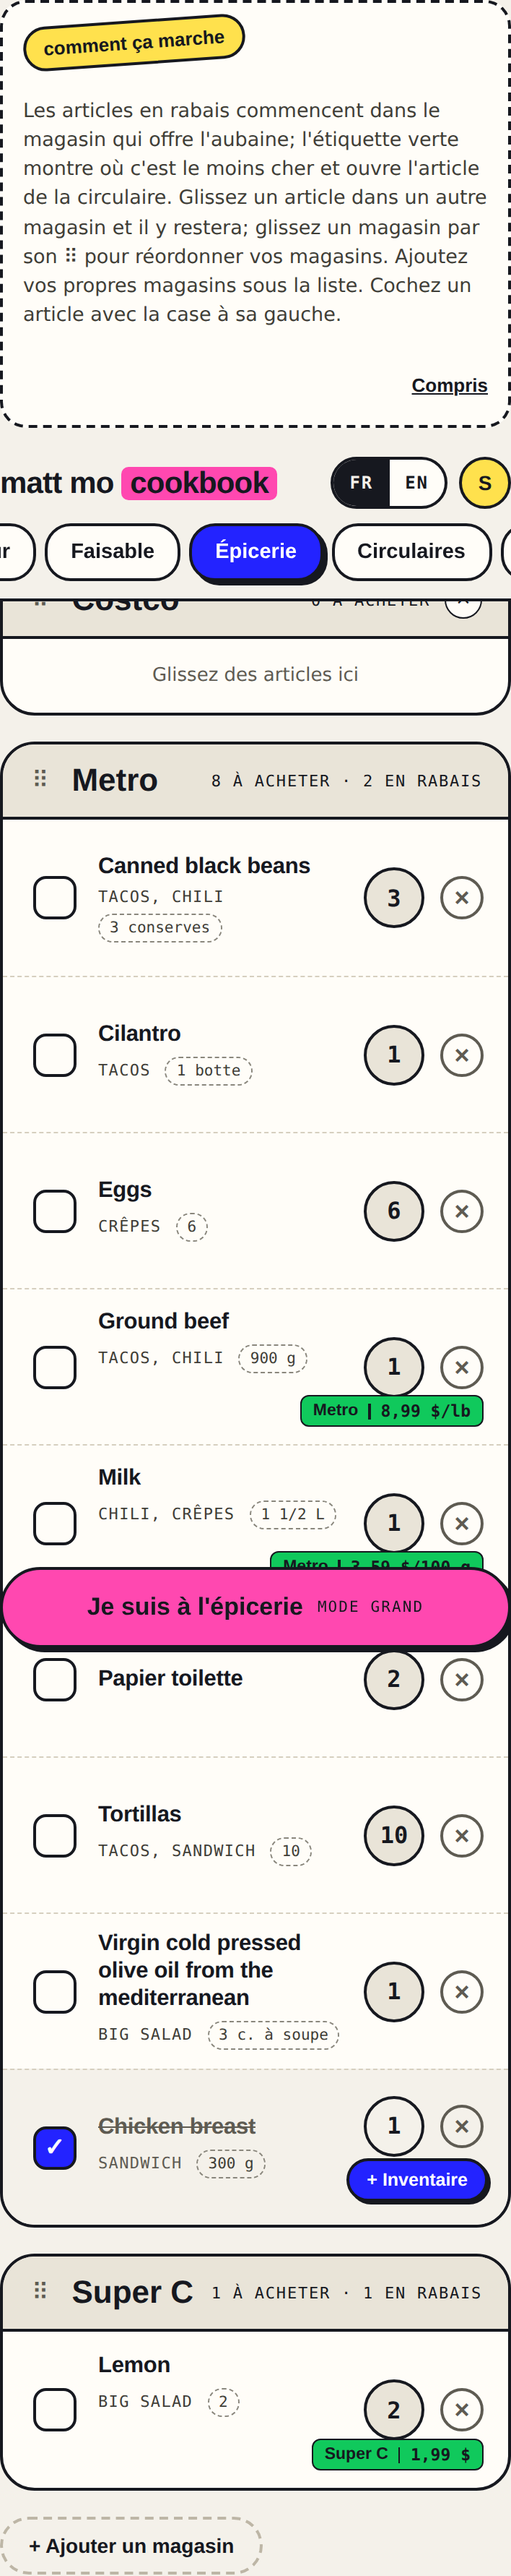
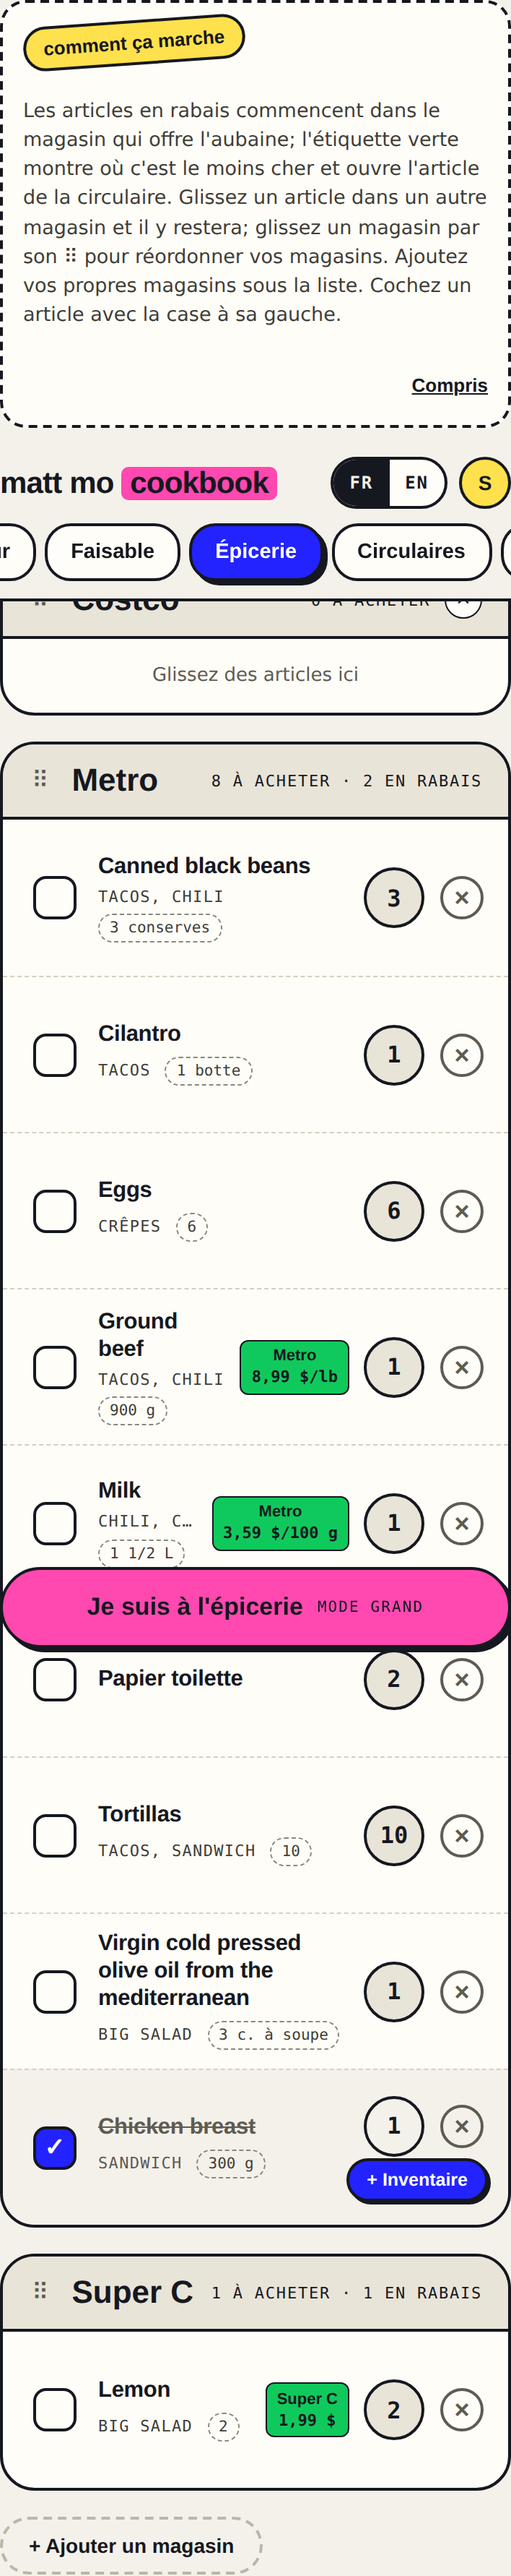
Grocery item: sale tag beside the number on a phone, white border on the Store mode check
- On a phone the sale tag is narrow (store over price) and sits just left of
  the number on the same line, instead of in the bottom right corner.
- In dark Store mode a checked row's blue box has a white border.
- Tests and docs updated.

Claude-Session: https://claude.ai/code/session_01P6gKk3TQsEzWZVFPMy5Arm

diff --git a/e2e/grocery-item.spec.js b/e2e/grocery-item.spec.js
@@ -225,26 +225,32 @@ test.describe("on a phone", () => {
     }
   });
 
-  test("on a phone the sale tag sits in the bottom right corner of its row, lined up with the ×", async ({ page }) => {
+  test("on a phone the sale tag is narrow and sits just left of the number, on the same line", async ({ page }) => {
     await setup(page);
-    const tags = page.locator(".riso-row-deal");
-    await expect(tags).toHaveCount(2);
+    await expect(page.locator(".riso-row-deal")).toHaveCount(2);
     const spots = await page.locator(".riso-row").evaluateAll((rows) =>
       rows
         .filter((r) => r.querySelector(".riso-row-deal"))
         .map((r) => {
           const tag = r.querySelector(".riso-row-deal").getBoundingClientRect();
-          const del = r.querySelector(".riso-row-delete").getBoundingClientRect();
           const qty = r.querySelector(".riso-row-qty").getBoundingClientRect();
-          const row = r.getBoundingClientRect();
-          return { gap: Math.abs(tag.right - (del.right - 7)), underNumber: tag.top >= qty.bottom - 1, inRow: tag.bottom <= row.bottom && tag.left >= row.left };
+          const name = r.querySelector(".riso-row-name").getBoundingClientRect();
+          return {
+            leftOfNumber: tag.right <= qty.left && qty.left - tag.right < 16,
+            sameLine: Math.abs(tag.top + tag.height / 2 - (qty.top + qty.height / 2)) < 6,
+            narrow: tag.width <= 100,
+            afterName: tag.left >= name.right,
+            rightEdge: Math.round(tag.right),
+          };
         })
     );
     for (const x of spots) {
-      expect(x.gap).toBeLessThanOrEqual(2);
-      expect(x.underNumber).toBe(true);
-      expect(x.inRow).toBe(true);
+      expect(x.leftOfNumber).toBe(true);
+      expect(x.sameLine).toBe(true);
+      expect(x.narrow).toBe(true);
+      expect(x.afterName).toBe(true);
     }
+    expect(new Set(spots.map((x) => x.rightEdge)).size).toBe(1); // lined up
   });
 
   test("Store mode draws the same item at 120 px, and the whole row checks it", async ({ page }) => {
@@ -266,7 +272,8 @@ test.describe("on a phone", () => {
     await expect(mode.locator(".store-mode-sale, .riso-row-deal")).toHaveCount(0);
     await beef.click();
     await expect(beef).toHaveClass(/\bon\b/);
-    expect(await beef.locator(".store-mode-check").evaluate((e) => getComputedStyle(e).backgroundColor)).toBe("rgb(35, 35, 255)");
+    const box = await beef.locator(".store-mode-check").evaluate((e) => [getComputedStyle(e).backgroundColor, getComputedStyle(e).borderTopColor]);
+    expect(box).toEqual(["rgb(35, 35, 255)", "rgb(255, 255, 255)"]); // blue, with a white border
     const cut = await mode.locator(".store-mode-name").evaluateAll((els) => els.some((e) => e.scrollWidth > e.clientWidth + 1 || e.scrollHeight > e.clientHeight + 1));
     expect(cut).toBe(false);
   });

diff --git a/client/src/index.css b/client/src/index.css
@@ -10138,21 +10138,31 @@ button.riso-protein-bar {
     display: flex;
   }
 
-  /* The slot dissolves: "+ Inventory" is a plain part of the cluster, and the
-     sale tag sits in the row's bottom right corner, the same place on every
-     row. Rows with a tag keep room for it under the text. */
+  /* The slot dissolves: "+ Inventory" is a plain part of the cluster. The sale
+     tag sits just left of the number, narrow, with the store over the price,
+     so the name still gets the room. */
   .riso-row-slot {
     display: contents;
   }
 
   .riso-row-deal {
-    position: absolute;
-    right: 17px;
-    bottom: 12px;
+    flex-direction: column;
+    justify-content: center;
+    gap: 1px;
+    height: auto;
+    min-height: 38px;
+    margin-right: 6px;
+    padding: 3px 7px;
   }
 
-  .riso-row.has-deal .riso-row-main {
-    padding-bottom: 34px;
+  .riso-row-deal-div {
+    display: none;
+  }
+
+  .riso-row-deal-store,
+  .riso-row-deal-price {
+    font-size: 11px;
+    line-height: 14px;
   }
 
   .riso-row-qtycol {
@@ -10317,7 +10327,7 @@ button.riso-protein-bar {
 
 .store-mode[data-sm-theme="dark"] .store-mode-row.on .store-mode-check {
   background: var(--riso-accent);
-  border-color: var(--riso-accent);
+  border-color: var(--riso-on-accent);
   color: var(--riso-on-accent);
 }
 

diff --git a/client/src/components/GroceryItem.jsx b/client/src/components/GroceryItem.jsx
@@ -158,7 +158,7 @@ export function GroceryItem({
     <div
       ref={rowRef}
       data-gi-row
-      className={`riso-row${checked ? " checked" : ""}${dragging ? " dragging" : ""}${dragProps ? " draggable" : ""}${flyerDeal ? " opens-deal" : ""}${showDeal ? " has-deal" : ""}`}
+      className={`riso-row${checked ? " checked" : ""}${dragging ? " dragging" : ""}${dragProps ? " draggable" : ""}${flyerDeal ? " opens-deal" : ""}`}
       {...(flyerDeal
         ? {
             role: "button",

diff --git a/docs/how-it-works.md b/docs/how-it-works.md
@@ -86,7 +86,7 @@ While working, run only what your change touches. For example, `npx vitest run c
 
 Screens use the Riso Poster look: paper background, ink outlines, hard shadows, and blue, pink, yellow and green accents. Colours come from the `--riso-*` tokens in `index.css`. Reuse the existing classes (`riso-chip`, `riso-btn`, `riso-eyebrow`...) before adding new ones, and add no new colours.
 
-The grocery item is one component, `components/GroceryItem.jsx`, used by By store, By aisle, By recipe (`variant="line"`) and Store mode (`variant="store"`). Do not draw an item anywhere else. Its design is in `docs/design/grocery-item/README.md` (the handoff, with the `.dc.html` references). How many to buy is a plain number (`lib/groceryQuantity.js`); the unit only shows in the read-only recipe quantity. In a list the right side is fixed columns (sale tag or + Inventory, recipe quantity, a round number, ×) so they line up from row to row; on a phone the sale tag sits in the row's bottom right corner. Store mode shows no sale tag. Every item in a view is one height: CSS sets `max(--gi-min, --gi-h)`, and `hooks/useEqualRowHeight.js` sets `--gi-h` from the view's longest name, so no name is cut.
+The grocery item is one component, `components/GroceryItem.jsx`, used by By store, By aisle, By recipe (`variant="line"`) and Store mode (`variant="store"`). Do not draw an item anywhere else. Its design is in `docs/design/grocery-item/README.md` (the handoff, with the `.dc.html` references). How many to buy is a plain number (`lib/groceryQuantity.js`); the unit only shows in the read-only recipe quantity. In a list the right side is fixed columns (sale tag or + Inventory, recipe quantity, a round number, ×) so they line up from row to row; on a phone the sale tag is narrow (store over price) and sits just left of the number. Store mode shows no sale tag. Every item in a view is one height: CSS sets `max(--gi-min, --gi-h)`, and `hooks/useEqualRowHeight.js` sets `--gi-h` from the view's longest name, so no name is cut.
 
 Buttons press in for a moment (under 150 ms) through one shared rule in `index.css`, next to `.riso-btn`: `riso-btn`, `riso-chip`, `riso-filter-chip`, the Grocery and Store mode buttons, and anything with `riso-press`. A new kind of button joins by using one of those classes or by being added to that list. The global reduced-motion rule turns the animation off. Step timers (the recipe card and Cook mode) share `hooks/useStepTimers.js`.
 
